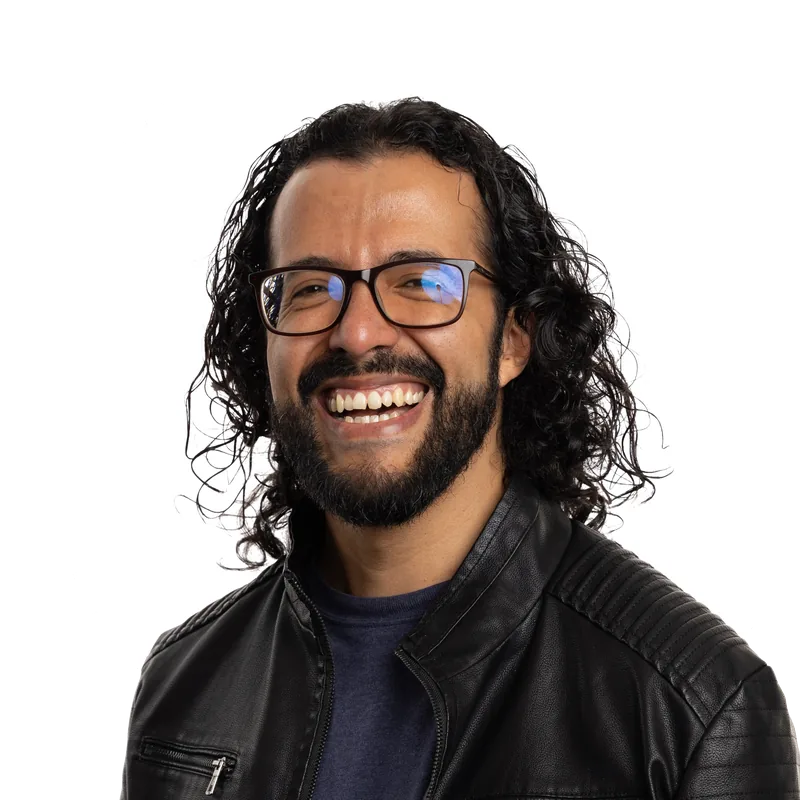
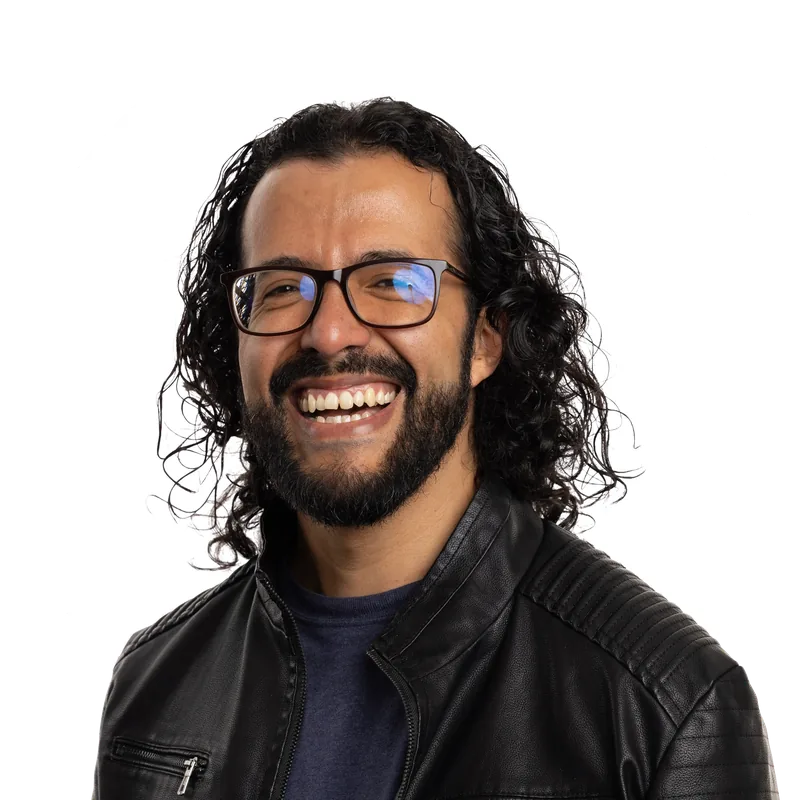
content: hero headshot recentred on circle, faint bg haze removed, no frame/glow on hero image, smaller photo credit

Changed region(s): [[0.0938, 0.125, 1.0, 1.0]]

diff --git a/app/page.tsx b/app/page.tsx
@@ -14,7 +14,7 @@ export default function Home() {
               height={800}
               className="hero-image"
             />
-            <figcaption style={{ marginTop: "0.6rem", fontSize: "0.75rem", color: "var(--muted)", textAlign: "center" }}>
+            <figcaption style={{ marginTop: "0.6rem", fontSize: "0.625rem", letterSpacing: "0.02em", color: "var(--muted)", textAlign: "center" }}>
               Photo by{" "}
               <a href={entity.headshot.creditUrl} target="_blank" rel="noopener noreferrer">{entity.headshot.credit}</a>
             </figcaption>

diff --git a/app/globals.css b/app/globals.css
@@ -226,8 +226,9 @@ section { margin-bottom: 60px; }
   height: auto;
   display: block;
   margin: 0 auto;
-  border: 1px solid var(--laser-soft-border);
-  box-shadow: 0 0 24px var(--laser-glow);
+  border: none;
+  box-shadow: none;
+  background: transparent;
 }
 .hero-content {}
 
